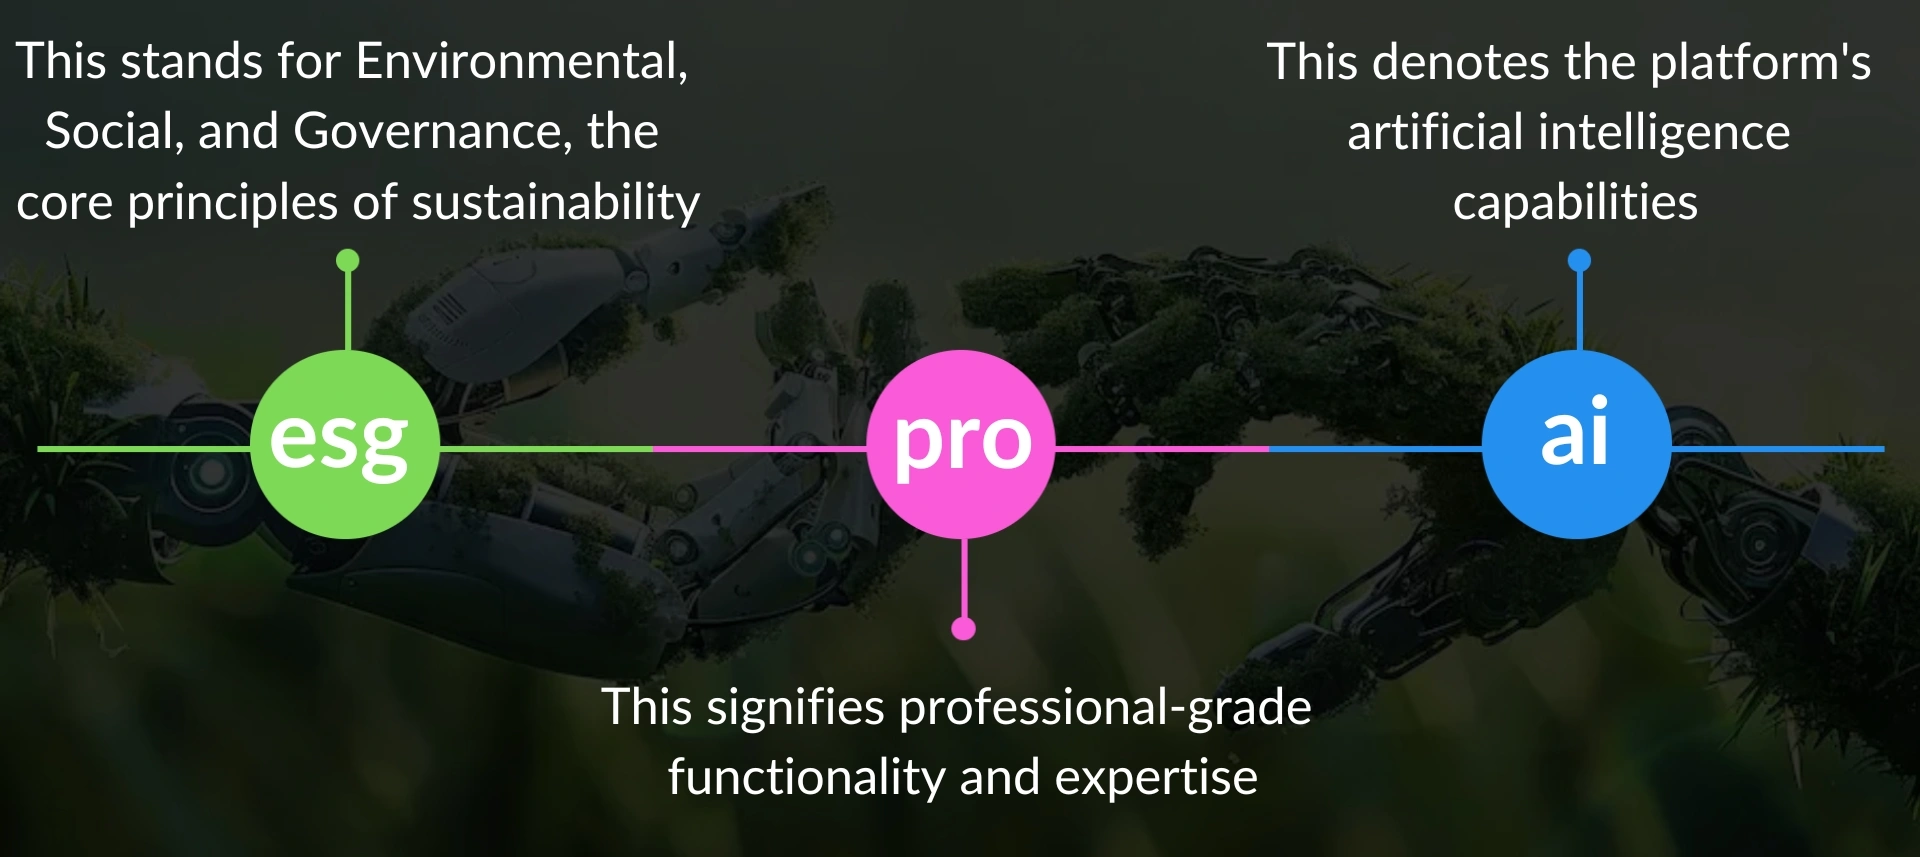
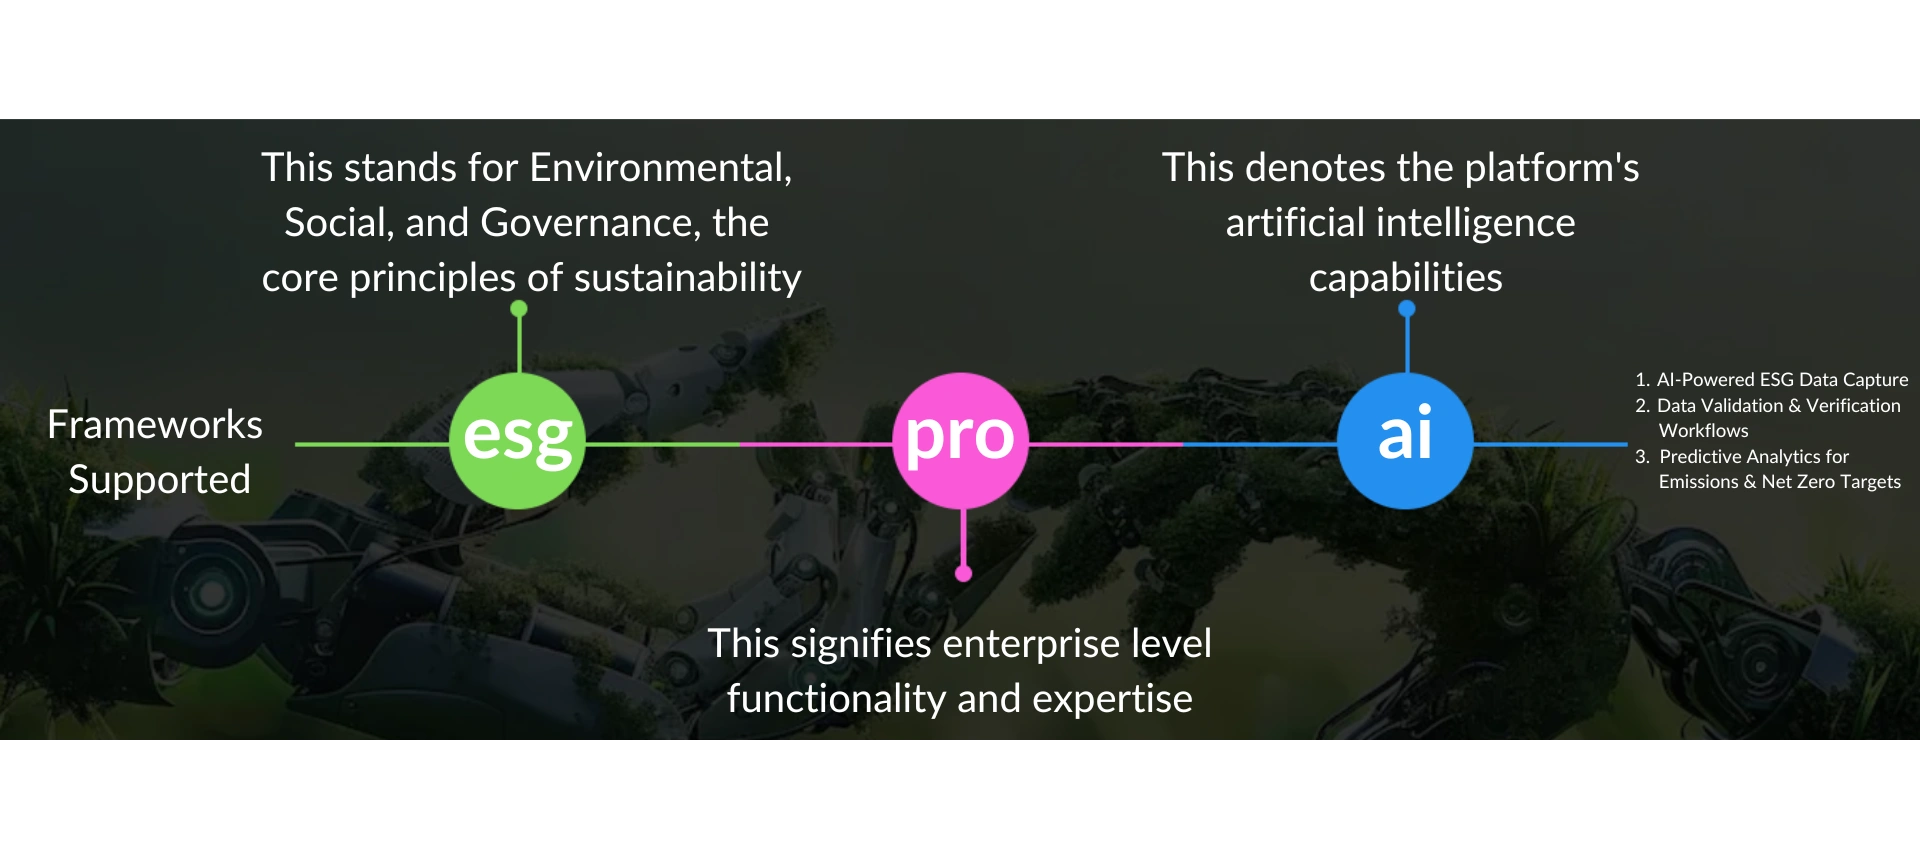
esgpro.ai image update

diff --git a/esgpro-ai.html b/esgpro-ai.html
@@ -204,7 +204,7 @@
                     </div>
                 </div>
             </div>
-            <div class="moto-widget moto-widget-row row-fixed moto-spacing-top-small moto-spacing-right-auto moto-spacing-bottom-auto
+            <!-- <div class="moto-widget moto-widget-row row-fixed moto-spacing-top-small moto-spacing-right-auto moto-spacing-bottom-auto
             moto-spacing-left-auto timeline-container" data-grid-type="sm" data-widget="row" data-spacing="lala"
                 data-bg-position="center">
                 <div class="ps-timeline-sec">
@@ -232,21 +232,26 @@
                         </ol>
                     </div>
                 </div>
-            </div>
-            <div class="moto-widget moto-widget-row__column moto-cell col-sm-12 moto-spacing-top-auto moto-spacing-right-auto moto-spacing-bottom-auto moto-spacing-left-auto circle-ai-img"
-            style="" data-widget="row.column" data-container="container"
-            data-spacing="aaaa" data-bg-position="left top">
-            <div data-widget-id="wid_1526457070_yy312aj5i"
-                class="moto-widget moto-widget-image moto-widget_with-deferred-content moto-preset-default moto-align-center_mobile-h moto-spacing-top-small moto-spacing-right-auto moto-spacing-bottom-small moto-spacing-left-auto"
-                data-widget="image">
-                <span class="moto-widget-image-link">
-                    <img data-src="assets/image/carbon-book/circle-ai.webp"
-                        src="assets/image/carbon-book/circle-ai.webp"
-                        class="moto-widget-image-picture moto-widget-deferred-content lazyloaded"
-                        data-id="156" title="" alt="">
-                </span>
-            </div>
+            </div> -->
+            <div class="moto-widget moto-widget-row row-fixed row-gutter-0 moto-spacing-top-medium moto-spacing-right-auto moto-spacing-bottom-medium moto-spacing-left-auto timeline-container"
+            data-grid-type="sm" data-widget="row" data-spacing="lala"
+            style="background-image:url(assets/image/carbon-book/circle-ai-dashboard.webp);background-position:center;background-repeat:no-repeat;background-size:cover; height: 90vh;"
+            data-bg-position="center">
         </div>
+            <div class="moto-widget moto-widget-row__column moto-cell col-sm-12 moto-spacing-top-auto moto-spacing-right-auto moto-spacing-bottom-auto moto-spacing-left-auto circle-ai-img"
+                style="" data-widget="row.column" data-container="container" data-spacing="aaaa"
+                data-bg-position="left top">
+                <div data-widget-id="wid_1526457070_yy312aj5i"
+                    class="moto-widget moto-widget-image moto-widget_with-deferred-content moto-preset-default moto-align-center_mobile-h moto-spacing-top-small moto-spacing-right-auto moto-spacing-bottom-small moto-spacing-left-auto"
+                    data-widget="image">
+                    <span class="moto-widget-image-link">
+                        <img data-src="assets/image/carbon-book/circle-ai.webp"
+                            src="assets/image/carbon-book/circle-ai.webp"
+                            class="moto-widget-image-picture moto-widget-deferred-content lazyloaded" data-id="156"
+                            title="" alt="">
+                    </span>
+                </div>
+            </div>
             <div class="moto-widget moto-widget-row row-fixed moto-spacing-top-auto moto-spacing-right-auto moto-spacing-bottom-auto moto-spacing-left-auto"
                 data-grid-type="sm" data-widget="row" data-spacing="lama" style="" data-bg-position="left top">
                 <div class="container-fluid">

diff --git a/assets/css/styles.css b/assets/css/styles.css
@@ -7669,7 +7669,7 @@ article .moto-spacing-bottom-small {
 }
 
 /* Timeline */
-.timeline-container {
+/* .timeline-container {
     width: 100%;
     position: relative;
     background-image: url('../image/carbon-book/key-features-bg.webp');
@@ -7686,7 +7686,7 @@ article .moto-spacing-bottom-small {
     right: 0px;
     bottom: 0px;
     background-color: rgba(0, 0, 0, 0.8);
-}
+} */
 
 .ps-timeline-sec {
     position: relative;
